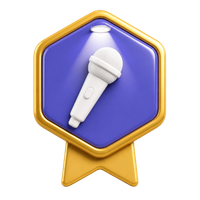
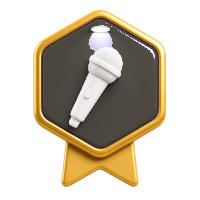
Turn the mark and Mocki mustard to match the new accent
The mark's tile is now the amber of the product, with a red-orange beak
and an ink eye; favicons, the app icons and the email mark are rendered
again from the SVG. Mocki's six forms are recoloured from violet to
mustard, beak and feet deepened so they still stand off the body. The
badges' violet faces become the warm ink, which reads against their
gold frames where mustard would not.

Claude-Session: https://claude.ai/code/session_013ESSy1FARGFsstWtiS2a9U

Changed region(s): [[0.21, 0.09, 0.81, 0.75]]

diff --git a/web/src/design-system/mark.tsx b/web/src/design-system/mark.tsx
@@ -1,6 +1,6 @@
 /**
  * The mark: Mocki, the parrot, reduced to three shapes — head, crest and beak —
- * on the product's indigo tile.
+ * on the product's mustard tile.
  *
  * A parrot because parrots learn to speak by repeating out loud, which is the
  * whole of what this product asks of someone; reduced so it still reads at
@@ -21,11 +21,11 @@ export function Mark({ size = 32, className = "" }: { size?: number; className?:
       aria-hidden
       focusable="false"
     >
-      <rect width="64" height="64" rx="15" fill="#5856D6" />
-      <path d="M36 27C50 25 56 39 48 48C48 41 44 38 36 38Z" fill="#EF9F27" />
+      <rect width="64" height="64" rx="15" fill="#F6B733" />
+      <path d="M36 27C50 25 56 39 48 48C48 41 44 38 36 38Z" fill="#D9481C" />
       <path d="M20 21C19 13 23 8 30 7C27 11 28 15 32 18Z" fill="#fff" />
       <circle cx="28" cy="34" r="17" fill="#fff" />
-      <circle cx="33" cy="29" r="3.6" fill="#26215C" />
+      <circle cx="33" cy="29" r="3.6" fill="#2E2D2A" />
     </svg>
   );
 }

diff --git a/src/email-shell.ts b/src/email-shell.ts
@@ -42,8 +42,8 @@ const ACCENT = "#f6b733";
 const ACCENT_INK = "#2e2d2a";
 /** The accent as text on a light panel: amber itself is too pale to read. */
 const ACCENT_TEXT = "#8a5c00";
-/** The tile behind the mark, which keeps the logo's own colour. */
-const MARK_GROUND = "#5856d6";
+/** The tile behind the mark: the logo's own mustard. */
+const MARK_GROUND = "#f6b733";
 
 /** The mark as a PNG, from the product's own site (absolute: mail has no base URL). */
 const MARK_URL = `${(process.env.REALSESSIONS_SITE_URL ?? "https://www.getmockio.com").replace(/\/$/, "")}/mark-email.png`;
